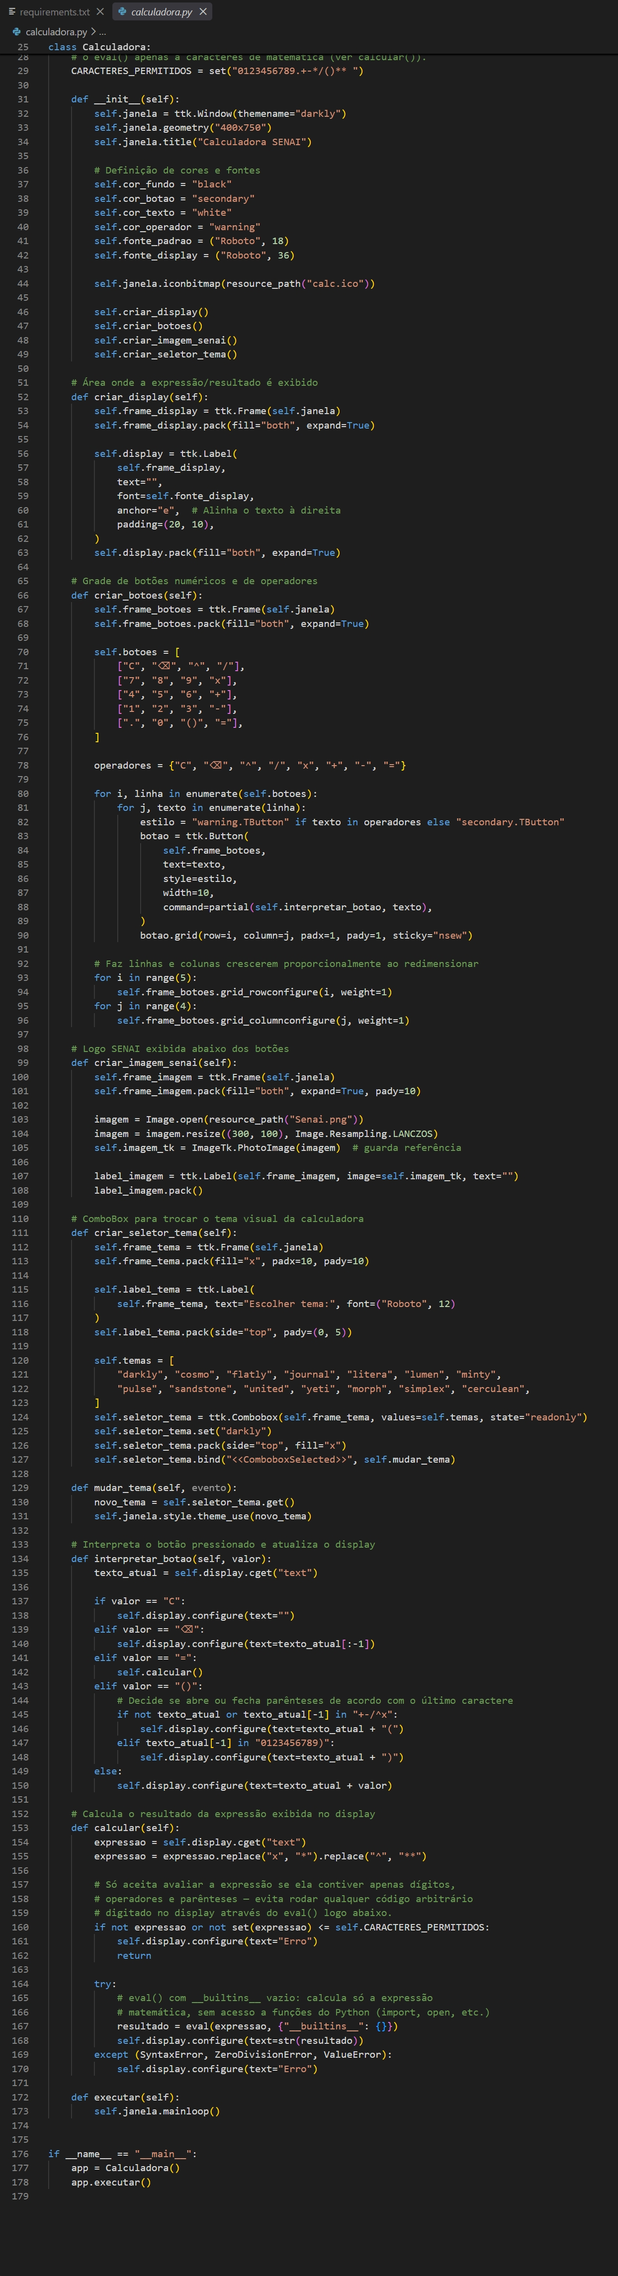
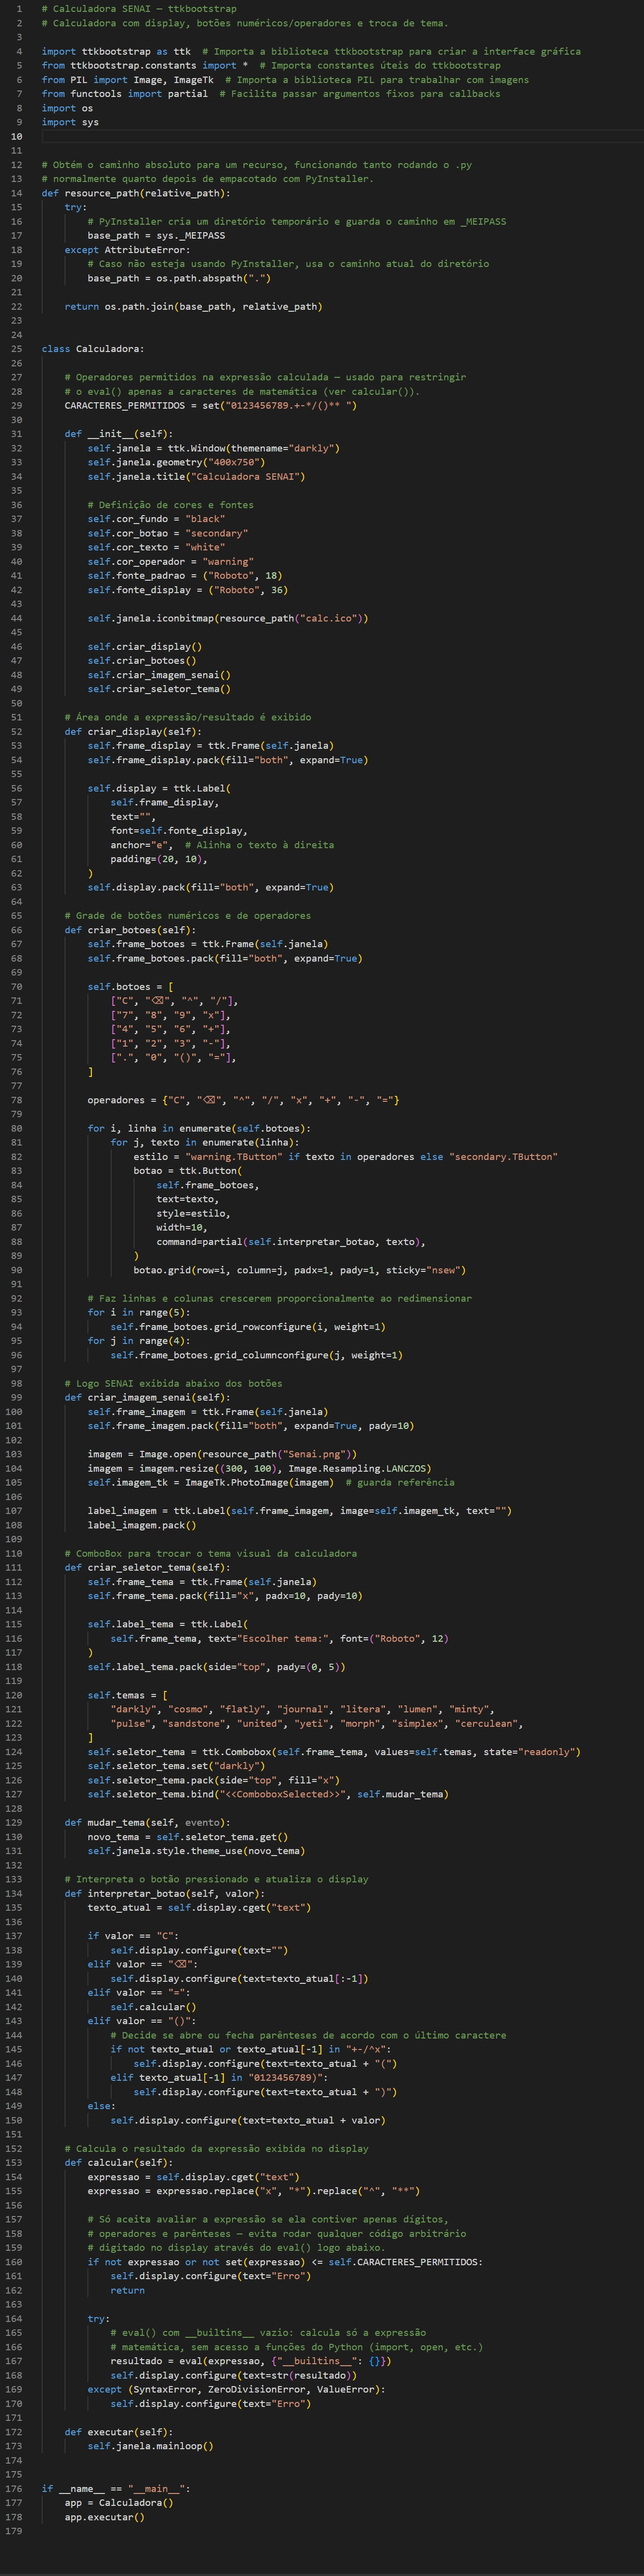
4-Calculadora

diff --git a/Python_com_interface/4-py-calculadora/calculadora.py b/Python_com_interface/4-py-calculadora/calculadora.py
@@ -1,3 +1,270 @@
-# Calculadora SENAI — ttkbootstrap
+# Calculadora SENAI - ttkbootstrap
+# Calculadora com display, botoes numericos/operadores e troca de tema.
+
+# Calculadora SENAI - ttkbootstrap
 # Calculadora com display, botões numéricos/operadores e troca de tema.
 
+import ttkbootstrap as ttk
+from ttkbootstrap.constants import *
+from PIL import Image, ImageTk
+from functools import partial
+import os
+import sys
+
+
+# Obtém o caminho absoluto para um recurso, funcionando tanto rodando o .py
+# normalmente quanto depois de empacotado com PyInstaller.
+def resource_path(relative_path):
+    try:
+        # PyInstaller cria um diretório temporário e guarda o caminho em _MEIPASS
+        base_path = sys._MEIPASS
+    except AttributeError:
+        # Caso não seja usando PyInstaller, usa o caminho atual do diretório
+        base_path = os.path.abspath(".")
+
+    return os.path.join(base_path, relative_path)
+
+
+class Calculadora:
+    # Operadores permitidos na expressão calculada - usado para restringir
+    # o eval() e evitar caracteres de matemática que possam ser perigosos.
+    CARACTERES_PERMITIDOS = set("0123456789.+-*/() ^ ")
+
+    def __init__(self):
+        self.janela = ttk.Window(themename="darkly")
+        self.janela.geometry("400x750")
+        self.janela.title("Calculadora SENAI")
+
+        # Definição de cores e fontes
+        self.cor_fundo = "black"
+        self.cor_botao = "secondary"
+        self.cor_texto = "white"
+        self.cor_operador = "warning"
+        self.fonte_padrao = ("Roboto", 18)
+        self.fonte_display = ("Roboto", 36)
+
+        self.janela.iconbitmap(resource_path("calc.ico"))
+
+        self.criar_display()
+        self.criar_botoes()
+        self.criar_imagem_senai()
+        self.criar_seletor_tema()
+
+    # Área onde a expressão/resultado é exibido
+    def criar_display(self):
+
+        self.frame_display = ttk.Frame(self.janela)
+        self.frame_display.pack(fill="both", expand=True)
+        self.display = ttk.Label(
+            self.frame_display,
+            text="",
+            font=self.fonte_display,
+            anchor="e",  # Alinha o texto à direita
+            padding=(20, 10)
+        )
+
+        self.display.pack(fill="both", expand=True)
+
+    # Grade de botões numéricos e operadores
+    def criar_botoes(self):
+
+        self.frame_botoes = ttk.Frame(self.janela)
+        self.frame_botoes.pack(fill="both", expand=True)
+
+        self.botoes = [
+            ["C", "⌫", "^", "/"],
+            ["7", "8", "9", "x"],
+            ["4", "5", "6", "+"],
+            ["1", "2", "3", "-"],
+            [".", "0", "(", ")", "="],
+        ]
+
+        operadores = {"C", "⌫", "^", "/", "x", "+", "-", "="}
+
+        for i, linha in enumerate(self.botoes):
+
+            for j, texto in enumerate(linha):
+
+                estilo = (
+                    "warning.TButton"
+                    if texto in operadores
+                    else "secondary.TButton"
+                )
+
+                botao = ttk.Button(
+                    self.frame_botoes,
+                    text=texto,
+                    style=estilo,
+                    width=10,
+                    command=partial(self.interpretar_botao, texto),
+                )
+
+                botao.grid(
+                    row=i,
+                    column=j,
+                    padx=1,
+                    pady=1,
+                    sticky="nsew"
+                )
+
+        # Faz linhas e colunas crescerem proporcionalmente ao redimensionar
+        for i in range(5):
+            self.frame_botoes.grid_rowconfigure(i, weight=1)
+
+        for j in range(4):
+            self.frame_botoes.grid_columnconfigure(j, weight=1)
+
+    # Logo SENAI exibida abaixo dos botões
+    def criar_imagem_senai(self):
+
+        self.frame_imagem = ttk.Frame(self.janela)
+        self.frame_imagem.pack(fill="both", expand=True, pady=10)
+
+        imagem = Image.open(resource_path("Senai.png"))
+        imagem = imagem.resize((100, 100), Image.Resampling.LANCZOS)
+
+        self.imagem_tk = ImageTk.PhotoImage(imagem)
+
+        label_imagem = ttk.Label(
+            self.frame_imagem,
+            image=self.imagem_tk,
+            text=""
+        )
+
+        label_imagem.pack()
+
+    # ComboBox para trocar o tema visual da calculadora
+    def criar_seletor_tema(self):
+
+        self.frame_tema = ttk.Frame(self.janela)
+        self.frame_tema.pack(fill="x", padx=10, pady=10)
+
+        self.label_tema = ttk.Label(
+            self.frame_tema,
+            text="Escolher tema:",
+            font=("Roboto", 12)
+        )
+
+        self.label_tema.pack(side="top", pady=(0, 5))
+
+        self.temas = [
+            "darkly",
+            "cosmo",
+            "flatly",
+            "journal",
+            "litera",
+            "lumen",
+            "minty",
+            "pulse",
+            "sandstone",
+            "united",
+            "yeti",
+            "morph",
+            "simplex",
+            "cerculean"]
+
+        self.seletor_tema = ttk.Combobox(
+            self.frame_tema,
+            values=self.temas,
+            state="readonly")
+
+        self.seletor_tema.set("darkly")
+
+        self.seletor_tema.pack(
+            side="top",
+            fill="x")
+
+        self.seletor_tema.bind(
+            "<<ComboboxSelected>>",
+            self.mudar_tema)
+
+    def mudar_tema(self, evento):
+        novo_tema = self.seletor_tema.get()
+        self.janela.style.theme_use(novo_tema)
+
+    # Interpreta o botão pressionado e atualiza o display
+    def interpretar_botao(self, valor):
+
+        texto_atual = self.display.cget("text")
+
+        if valor == "C":
+            self.display.configure(text="")
+        elif valor == "⌫":
+            self.display.configure(
+                text=texto_atual[:-1])
+        elif valor == "=":
+            self.calcular()
+        elif valor == "(":
+
+            # Decide se abre ou fecha parênteses de acordo com o último caractere
+            if not texto_atual or texto_atual[-1] in "0123456789":
+
+                self.display.configure(
+                    text=texto_atual + "*("
+                    if texto_atual
+                    else "(")
+
+            elif texto_atual[-1] in "0123456789":
+
+                self.display.configure(
+                    text=texto_atual + "(")
+
+            else:
+
+                self.display.configure(
+                    text=texto_atual + "(")
+
+        else:
+
+            self.display.configure(
+                text=texto_atual + valor)
+
+    # Calcula o resultado da expressão exibida no display
+    def calcular(self):
+
+        expressao = self.display.cget("text")
+
+        # Substitui ^ por ** para o Python
+        expressao = expressao.replace("^", "**")
+
+        # Substitui x por * para o Python
+        expressao = expressao.replace("x", "*")
+
+        # Só aceita avaliar a expressão se ela contiver apenas dígitos,
+        # operadores e parênteses - evita rodar qualquer código arbitrário
+        # digitado no display através do eval() logo abaixo.
+        if (
+            not expressao
+            or not set(expressao) <= self.CARACTERES_PERMITIDOS):
+
+            self.display.configure(text="Erro")
+            return
+
+        try:
+            # eval(), com __builtins__ vazio, calcula só a expressão
+            # matemática, sem acesso a funções do Python (import, open, etc.)
+            resultado = eval(
+                expressao,
+                {"__builtins__": {}})
+
+            self.display.configure(
+                text=str(resultado))
+
+        except (
+            SyntaxError,
+            ZeroDivisionError,
+            ValueError):
+
+            self.display.configure(
+                text="Erro")
+
+    def executar(self):
+
+        self.janela.mainloop()
+
+
+if __name__ == "__main__":
+
+    app = Calculadora()
+
+    app.executar()
